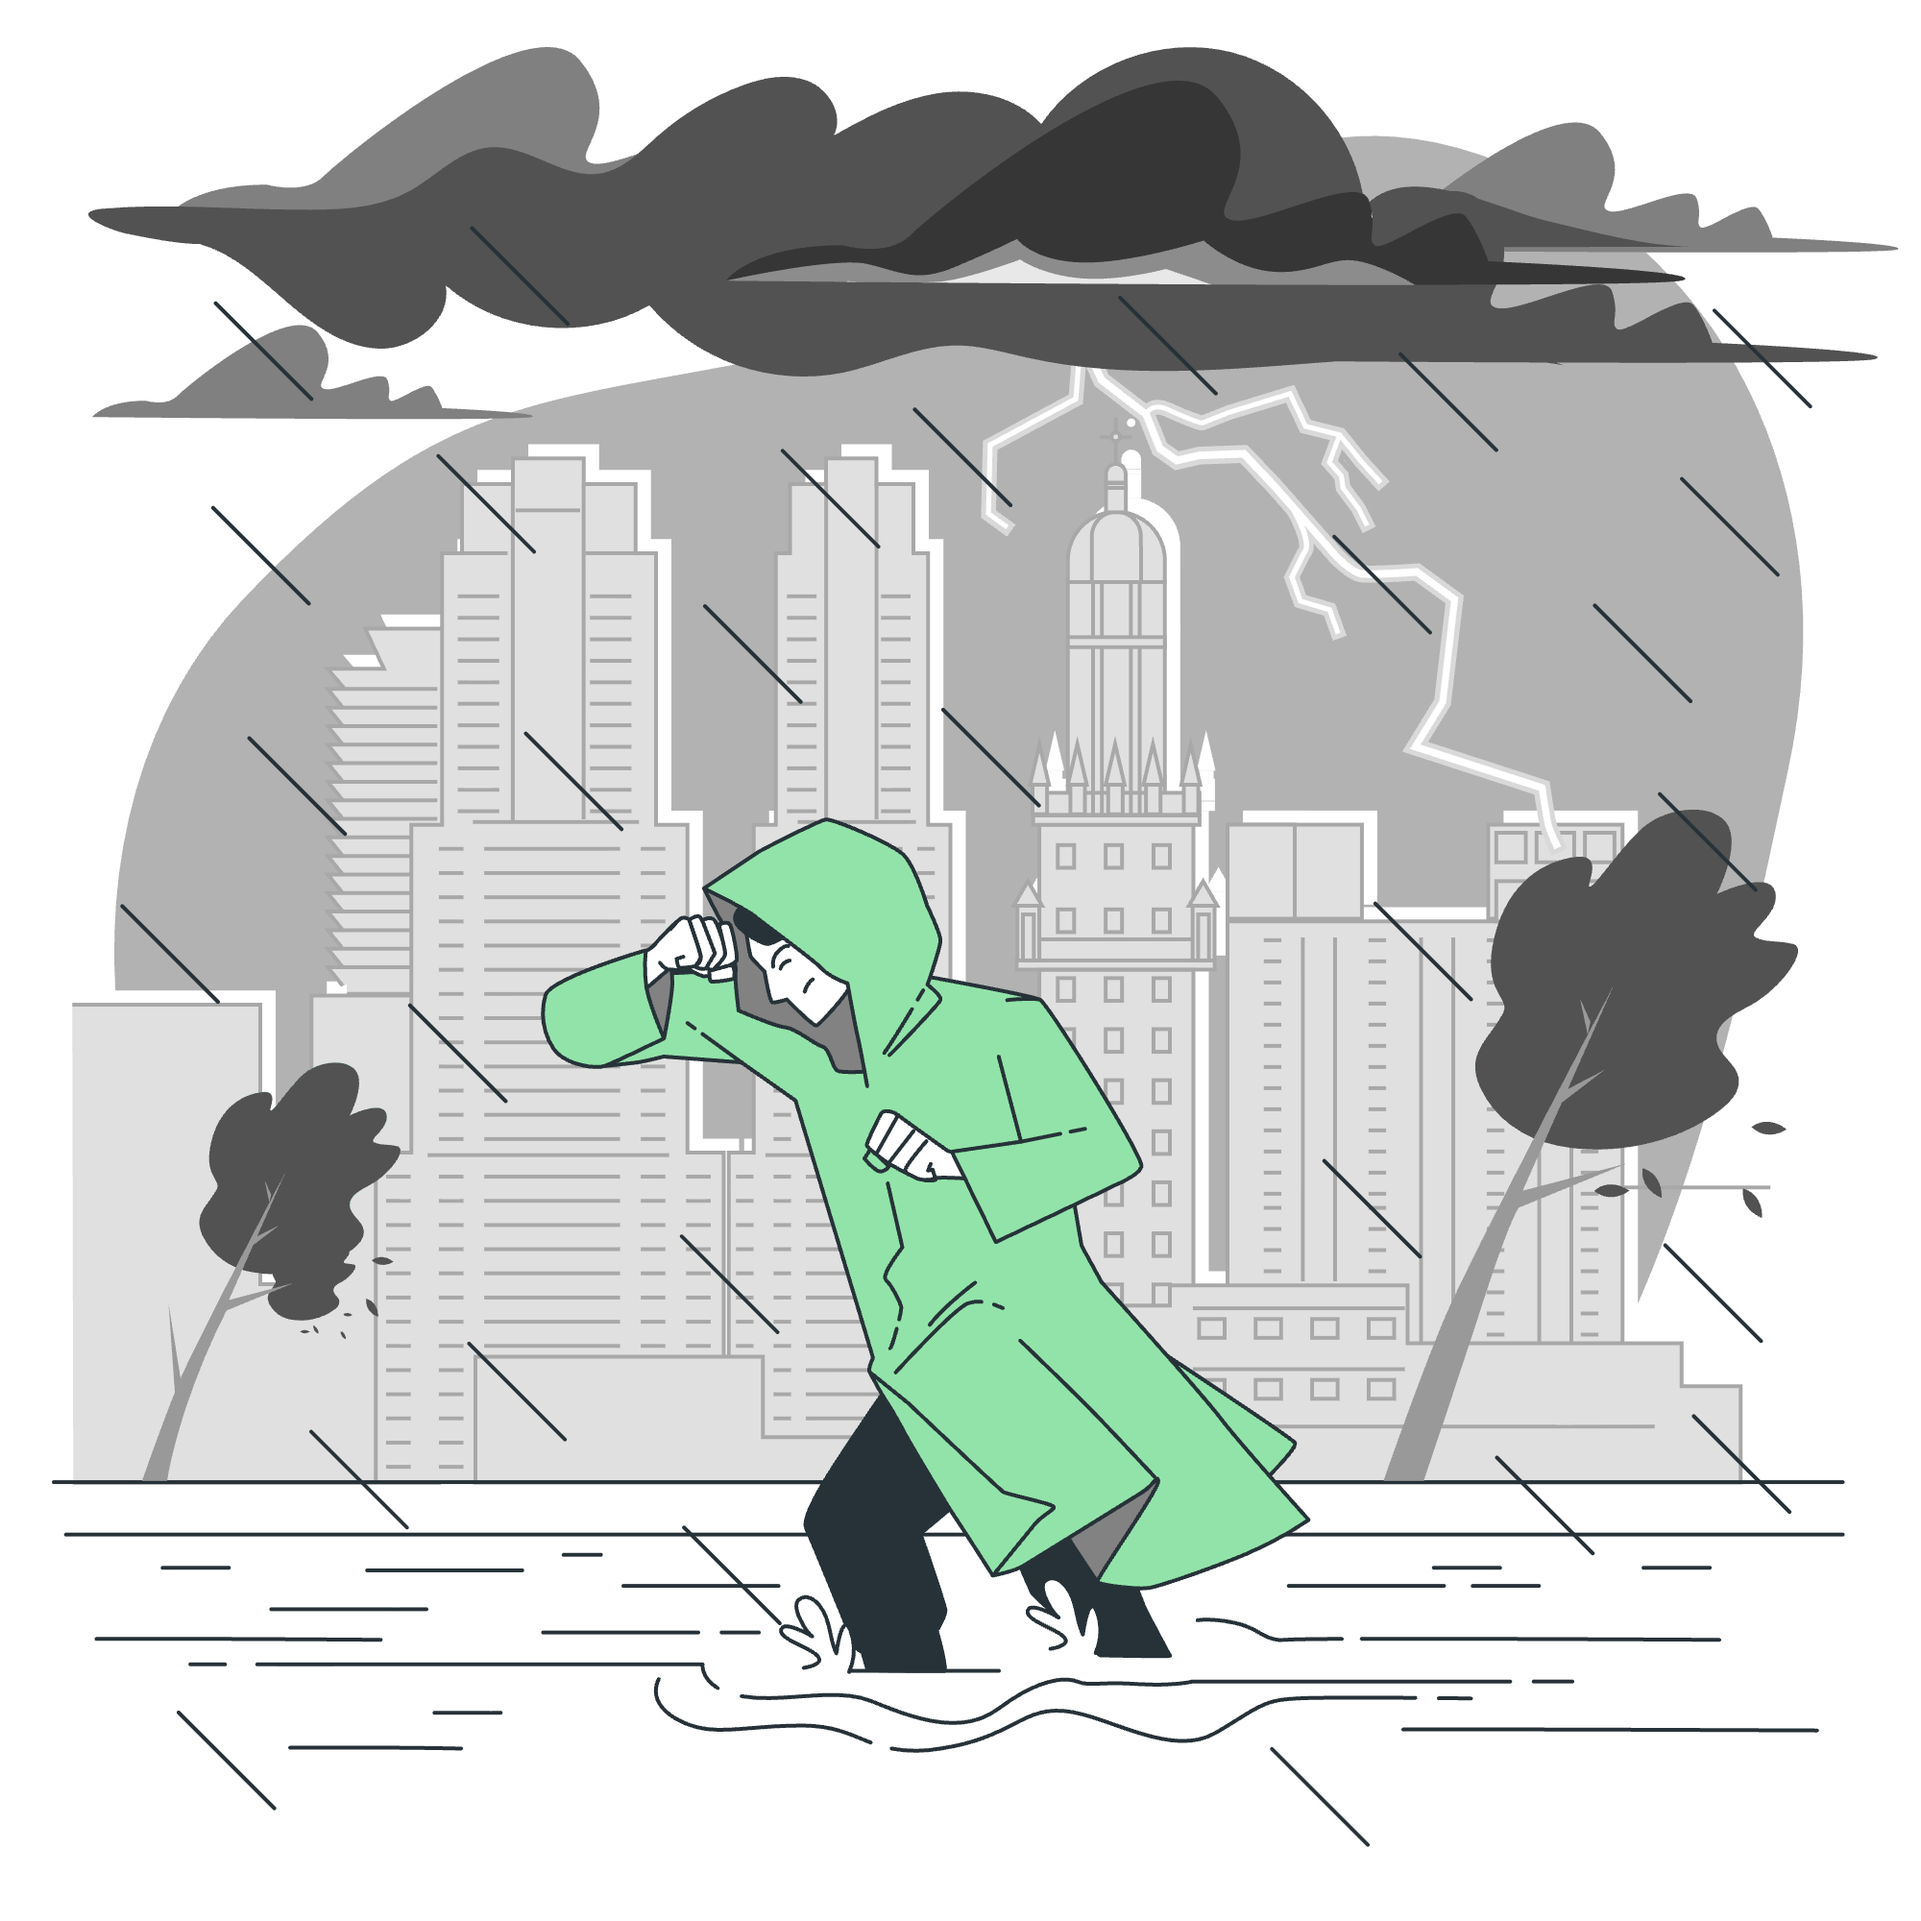
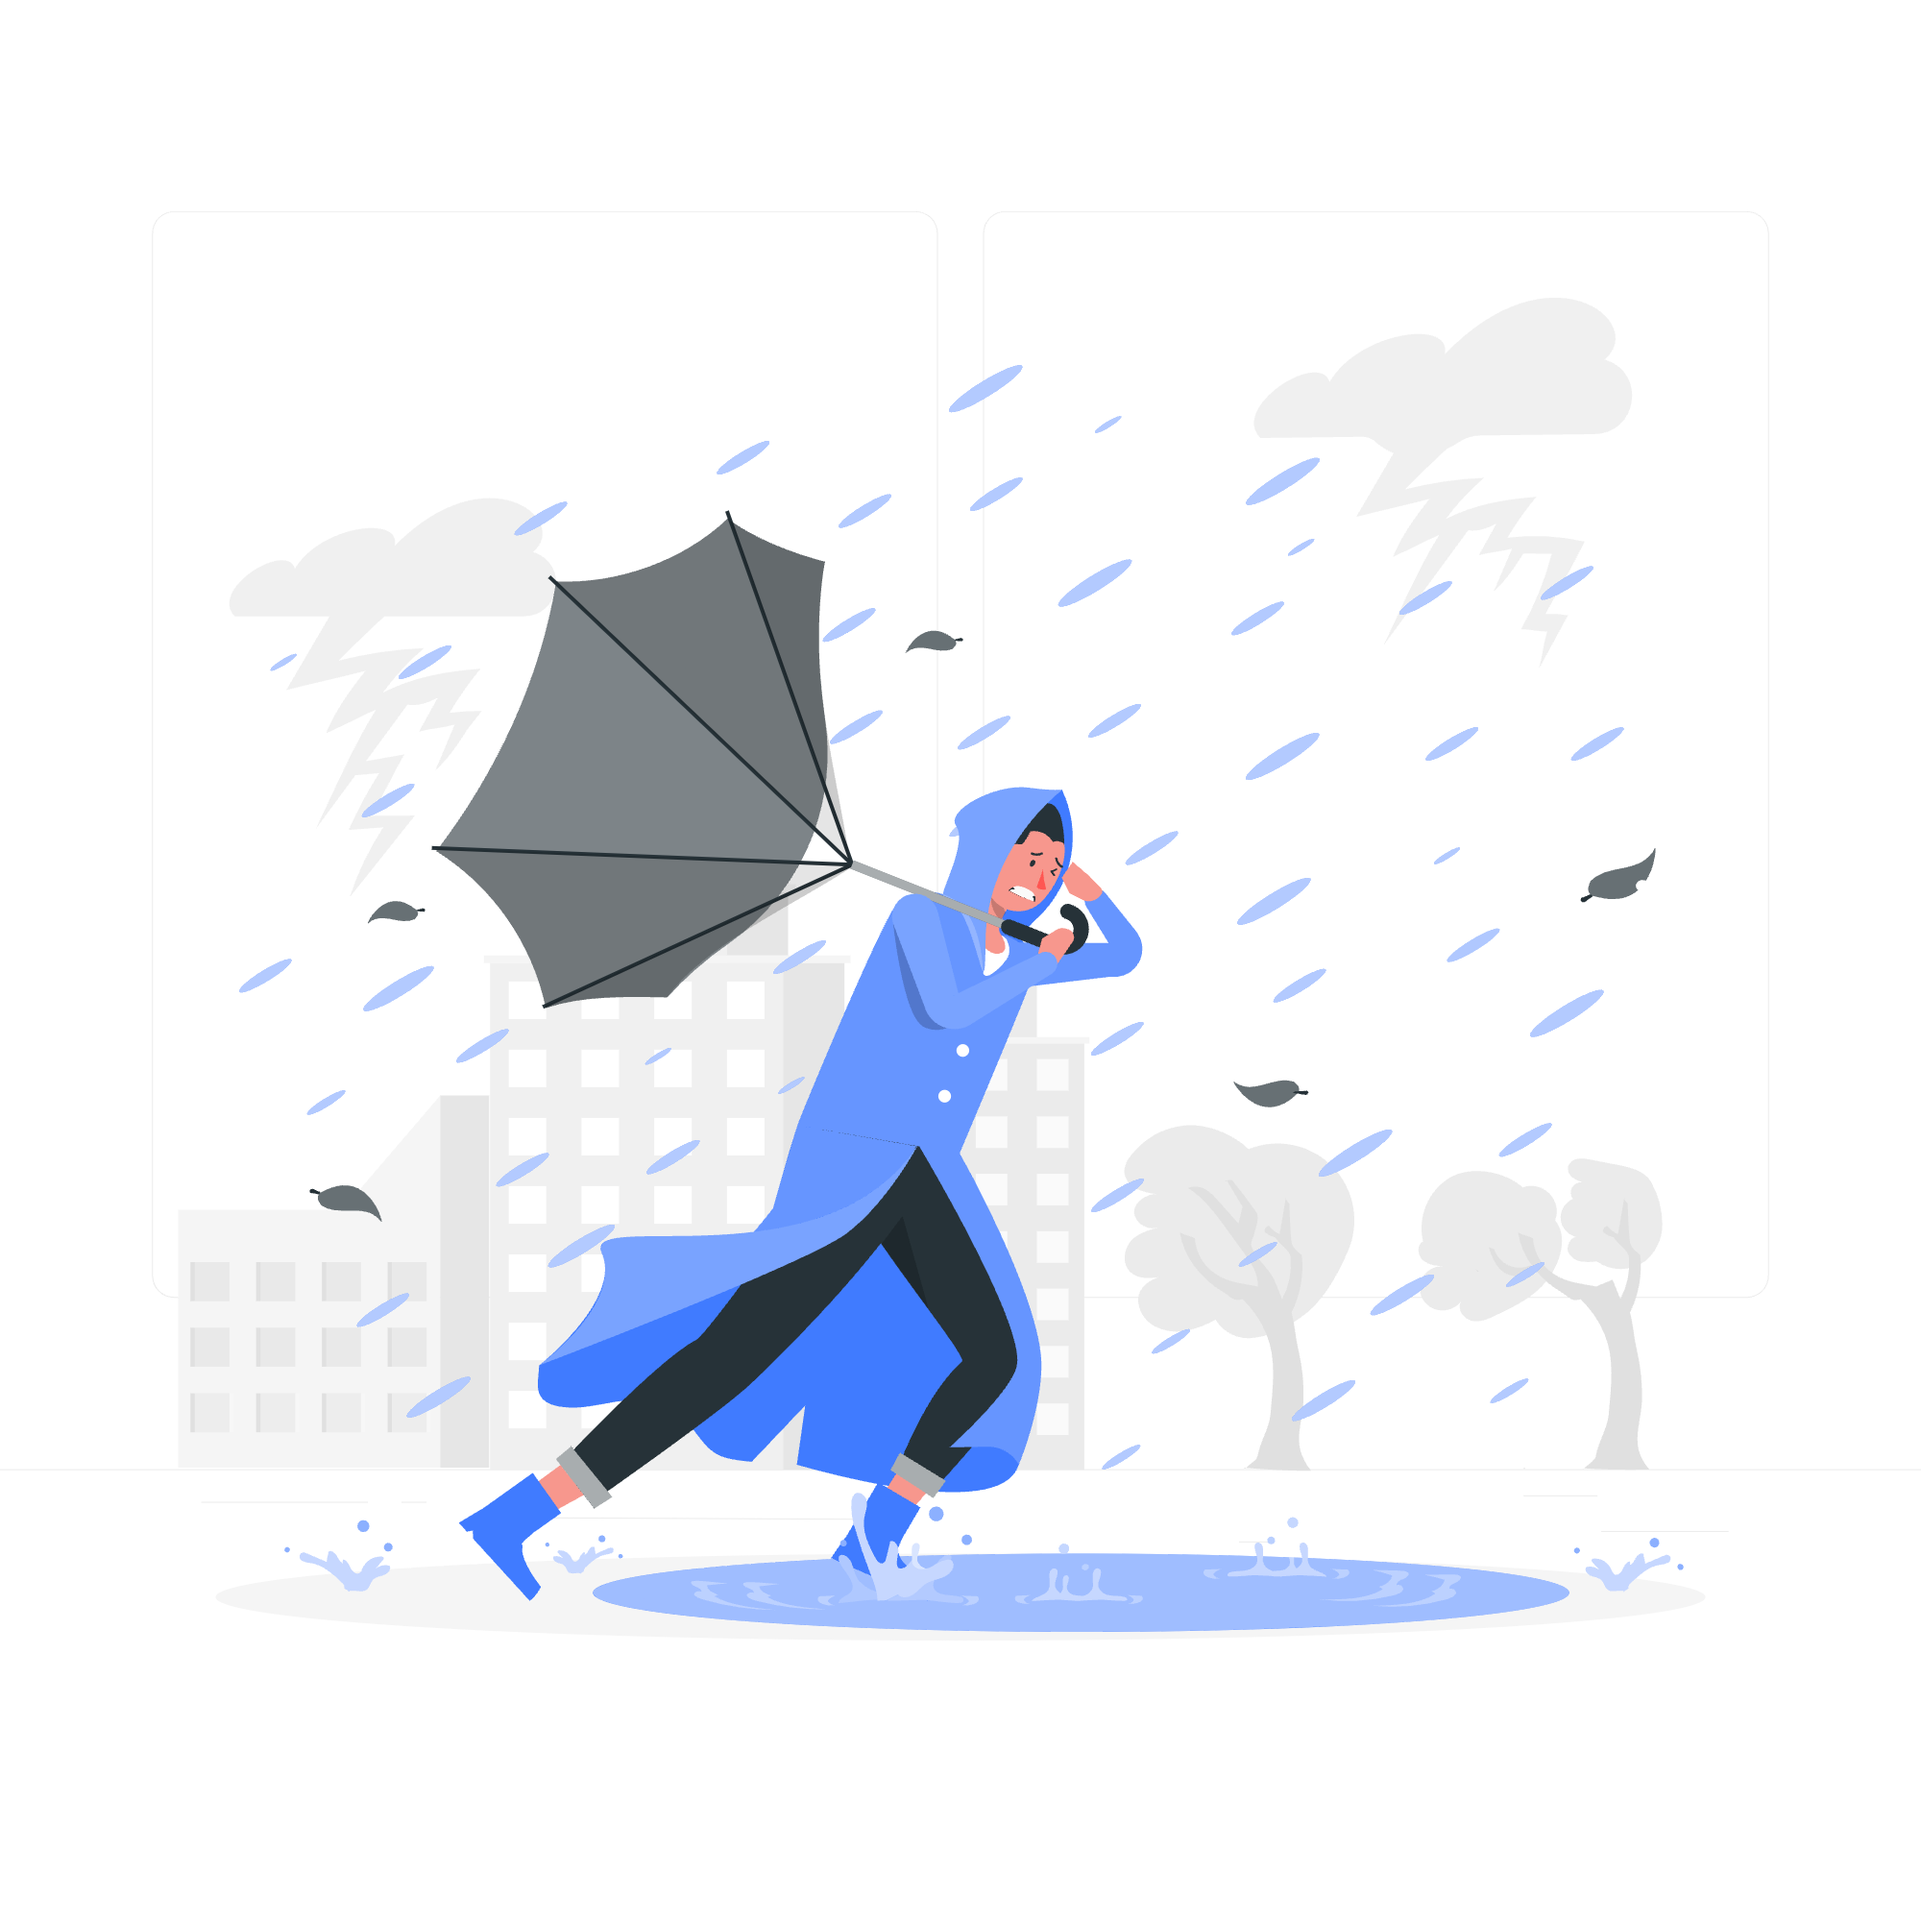
Added styles for Forecast cards. Added dummy for book page

diff --git a/src/components/forecastCard.tsx b/src/components/forecastCard.tsx
@@ -1,20 +1,132 @@
-import { View, Text, StyleSheet } from 'react-native';
+import { View, Text, Image, StyleSheet } from 'react-native';
 import type { WeatherForecastItem } from '../types/datacontext.types';
+import { weatherImageMap } from '../data/imgs';
+import { weatherIconMap } from '../data/icons';
+import {
+  ClockIcon,
+  WindIcon,
+  DropHalfIcon,
+  CloudWarningIcon,
+} from 'phosphor-react-native';
+import { PersonSimpleSwimIcon } from 'phosphor-react-native';
+import ForecastInfoCard from './forecastInfoCard';
 
 const ForecastCard = (props: WeatherForecastItem) => {
   const { main, weather, wind, dt_txt } = props;
+
+  const WeatherImage =
+    weatherImageMap[weather[0].icon as keyof typeof weatherImageMap] ||
+    require('../../images/err.png');
+
+  const IconComponent =
+    weatherIconMap[weather[0].icon as keyof typeof weatherIconMap] ||
+    CloudWarningIcon;
+
   return (
     <View style={styles.card}>
-      <Text>{dt_txt}</Text>
-      <Text>{weather[0].main}</Text>
-      <Text>{weather[0].description}</Text>
-      <Text>{`${Math.round(main.temp)}°`}</Text>
-      <Text>{`Feels Like ${Math.round(main.feels_like)}°`}</Text>
-      <Text>{`Humidity ${main.humidity}%`}</Text>
-      <Text>{`Wind Speed ${wind.speed} m/h`}</Text>
+      <View
+        style={{
+          width: '100%',
+          flexDirection: 'row',
+          alignItems: 'center',
+          gap: 6,
+        }}
+      >
+        <ClockIcon size={18} color="#172c3d" weight="bold" />
+        <Text style={{ color: '#172c3d', fontWeight: 600, fontSize: 18 }}>
+          {dt_txt}
+        </Text>
+      </View>
+
+      <View
+        style={{
+          gap: 6,
+          backgroundColor: '#fff',
+          borderRadius: 20,
+          padding: 12,
+        }}
+      >
+        <View style={{ flexDirection: 'row', gap: 8, alignItems: 'center' }}>
+          <IconComponent size={20} weight="fill" color="#313131" />
+          <Text
+            style={{
+              fontSize: 20,
+              fontWeight: 500,
+              color: '#313131',
+            }}
+          >
+            {weather[0].main}
+          </Text>
+        </View>
+        <Text
+          style={{
+            fontSize: 15,
+            color: '#848484',
+          }}
+        >
+          {weather[0].description}
+        </Text>
+      </View>
+
+      <View
+        style={{
+          width: '100%',
+          flexDirection: 'row',
+          justifyContent: 'space-between',
+          alignItems: 'center',
+        }}
+      >
+        <View style={{ padding: 10 }}>
+          <Text
+            style={{
+              fontSize: 44,
+              color: main.temp > 0 ? '#B65050' : '#5074B6',
+            }}
+          >{`${Math.round(main.temp)}°`}</Text>
+
+          <View style={{ flexDirection: 'row', gap: 6, alignItems: 'center' }}>
+            <PersonSimpleSwimIcon
+              weight="regular"
+              size={18}
+              color={
+                typeof main.temp === 'number' && main.temp > 0
+                  ? '#cc9797'
+                  : '#97a8cc'
+              }
+            />
+            <Text
+              style={{
+                fontSize: 14,
+                color: main.temp > 0 ? '#cc9797' : '#97a8cc',
+              }}
+            >{`Feels Like ${Math.round(main.feels_like)}°`}</Text>
+          </View>
+        </View>
+        <Image
+          source={WeatherImage}
+          style={{ height: 120, width: 120, resizeMode: 'contain' }}
+        />
+      </View>
+
+      <ForecastInfoCard
+        WeatherIcon={DropHalfIcon}
+        text="Humidity"
+        infoText={`${main.humidity}%`}
+        color="#6C78B3"
+      />
+      <ForecastInfoCard
+        WeatherIcon={WindIcon}
+        text="Wind Speed"
+        infoText={`${wind.speed} m/h`}
+        color="#6ca8b3"
+      />
     </View>
   );
 };
+
+/**    
+            <Text>{weather[0].main}</Text>
+      <Text>{weather[0].description}</Text>*/
 
 const styles = StyleSheet.create({
   card: {
@@ -24,7 +136,8 @@ const styles = StyleSheet.create({
     borderWidth: 1,
     borderColor: 'white',
     width: '100%',
-    marginBottom: 12,
+    marginBottom: 20,
+    gap: 12,
   },
 });
 

diff --git a/app/(tabs)/index.tsx b/app/(tabs)/index.tsx
@@ -102,15 +102,30 @@ export default function Index() {
                     <PersonSimpleSwimIcon
                       weight="regular"
                       size={20}
-                      color="#cc9797"
+                      color={
+                        typeof temp === 'number' && temp > 0
+                          ? '#cc9797'
+                          : '#97a8cc'
+                      }
                     />
-                    <Text style={{ fontSize: 16, color: '#cc9797' }}>
+                    <Text
+                      style={{
+                        fontSize: 16,
+                        color:
+                          typeof temp === 'number' && temp > 0
+                            ? '#cc9797'
+                            : '#97a8cc',
+                      }}
+                    >
                       Feels like
                     </Text>
                   </View>
                   <Text
                     style={{
-                      color: '#cc9797',
+                      color:
+                        typeof temp === 'number' && temp > 0
+                          ? '#cc9797'
+                          : '#97a8cc',
                       fontWeight: '500',
                       fontSize: 20,
                     }}
@@ -161,6 +176,7 @@ const styles = StyleSheet.create({
     paddingBottom: 24,
     flexDirection: 'row',
     justifyContent: 'space-between',
+    alignItems: 'center',
   },
   dateText: {
     fontSize: 24,

diff --git a/src/data/imgs.ts b/src/data/imgs.ts
@@ -4,17 +4,17 @@ export const weatherImageMap = {
   '02d': require('../../images/sunc.png'), // Малооблачно (день)
   '02n': require('../../images/moonc.png'),
   '03d': require('../../images/cld.png'), // Облачно
-  '03n': require('../../images/cld.png'),
-  '04d': require('../../images/cld.png'), // Пасмурно
-  '04n': require('../../images/cld.png'),
+  '03n': require('../../images/cldn.png'),
+  '04d': require('../../images/cldp.png'), // Пасмурно
+  '04n': require('../../images/cldpn.png'),
   '09d': require('../../images/clra.png'), // Ливень
-  '09n': require('../../images/clra.png'),
+  '09n': require('../../images/clran.png'),
   '10d': require('../../images/rain.png'), // Дождь
-  '10n': require('../../images/rain.png'),
+  '10n': require('../../images/rainn.png'),
   '11d': require('../../images/sto.png'), // Гроза
   '11n': require('../../images/sto.png'),
   '13d': require('../../images/snw.png'), // Снег
-  '13n': require('../../images/snw.png'),
+  '13n': require('../../images/snwn.png'),
   '50d': require('../../images/fog.png'), // Туман
-  '50n': require('../../images/fog.png'),
+  '50n': require('../../images/fogn.png'),
 };

diff --git a/app/(tabs)/book.tsx b/app/(tabs)/book.tsx
@@ -1,14 +1,39 @@
-import { View, Text } from 'react-native';
+import { View, Image, Text, StyleSheet } from 'react-native';
 import { SafeAreaView } from 'react-native-safe-area-context';
 
 const Book = () => {
   return (
-    <View>
+    <View style={styles.container}>
       <SafeAreaView edges={['top']}>
-        <Text>Book</Text>
+        <View style={{ width: '100%', alignItems: 'center' }}>
+          <Image
+            style={{ width: 300, height: 300, resizeMode: 'contain' }}
+            source={require('../../images/work.png')}
+          />
+          <Text
+            style={{
+              fontSize: 20,
+              fontWeight: 600,
+              padding: 6,
+              textAlign: 'center',
+              color: '#313131',
+            }}
+          >
+            {`Арсен уже активно работает над этой страницей :)`}
+          </Text>
+        </View>
       </SafeAreaView>
     </View>
   );
 };
+
+const styles = StyleSheet.create({
+  container: {
+    flex: 1,
+    padding: 20,
+    justifyContent: 'center',
+    alignItems: 'center',
+  },
+});
 
 export default Book;

diff --git a/src/components/forecastInfoCard.tsx b/src/components/forecastInfoCard.tsx
@@ -1,0 +1,52 @@
+import { View, Text, StyleSheet } from 'react-native';
+import { Icon } from 'phosphor-react-native';
+
+interface IProps {
+  WeatherIcon: Icon;
+  text: string;
+  infoText: string;
+  color: string;
+}
+
+export default function ForecastInfoCard({
+  WeatherIcon,
+  text,
+  infoText,
+  color,
+}: IProps) {
+  return (
+    <View style={styles.infoCard}>
+      <View style={{ flexDirection: 'row', alignItems: 'center', gap: 8 }}>
+        <WeatherIcon weight="fill" size={18} color={color} />
+        <Text style={{ ...styles.infoCardText, color: color }}>{text}</Text>
+      </View>
+      <Text
+        style={{
+          color: color,
+          fontWeight: '600',
+          fontSize: 18,
+        }}
+      >
+        {infoText}
+      </Text>
+    </View>
+  );
+}
+
+const styles = StyleSheet.create({
+  infoCard: {
+    gap: 6,
+    width: '100%',
+    flexDirection: 'row',
+    alignItems: 'center',
+    justifyContent: 'space-between',
+    backgroundColor: '#f4f4f4',
+    height: 60,
+    padding: 12,
+    borderRadius: 20,
+  },
+  infoCardText: {
+    fontSize: 16,
+    fontWeight: 500,
+  },
+});

diff --git a/app/(tabs)/forecast.tsx b/app/(tabs)/forecast.tsx
@@ -54,6 +54,7 @@ const styles = StyleSheet.create({
     paddingBottom: 24,
     flexDirection: 'row',
     justifyContent: 'space-between',
+    alignItems: 'center',
   },
   dateText: {
     fontSize: 24,

diff --git a/app/(tabs)/settings.tsx b/app/(tabs)/settings.tsx
@@ -57,6 +57,7 @@ const styles = StyleSheet.create({
     paddingBottom: 24,
     flexDirection: 'row',
     justifyContent: 'space-between',
+    alignItems: 'center',
   },
   dateText: {
     fontSize: 24,
